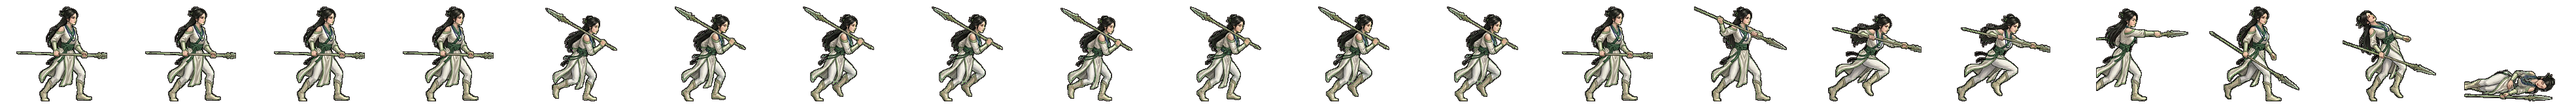
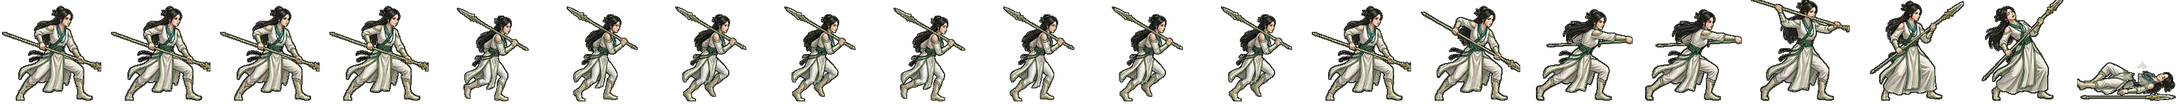
전투 띠 새로: haesol 동작 띠 다시 — 형이 구움 (굽기 꾸러미 · 검수 1·3번) (형 11-08)
Claude-Session: https://claude.ai/code/session_01TRiuNAG8xSjdmjCFpc8Rd5

Changed region(s): [[0.0, 0.0, 0.9964, 0.9688]]

diff --git a/src/ui/realm/battle-strikes.ts b/src/ui/realm/battle-strikes.ts
@@ -143,7 +143,7 @@ const CONTACT: Readonly<Record<string, [number, number, number]>> = {
   'gen-haebi': [14, 0.87, 0.53], 'gen-heo': [14, 0.94, 0.46], 'gen-hyeokgeose': [14, 0.83, 0.94],
   'gen-hyeopbo': [14, .93, .21], 'gen-malgalgi': [14, 0.88, 0.28], 'gen-mari': [14, .98, .47],
   'gen-oi': [14, .98, .48], 'gen-onjo': [14, 0.83, 0.93], 'gen-soebi': [14, 0.80, 0.95],
-  'gen-soseono': [14, 0.92, 0.31], 'gen-maryeo': [14, 0.91, 0.79], 'gen-horselord': [14, 0.89, 0.25], 'gen-olddaeso': [14, 0.93, 0.91], 'gen-maro': [14, 0.97, 0.49], 'gen-gwaeyu': [14, 0.98, 0.71], 'gen-daemusin': [14, 0.91, 0.38], 'gen-tahae': [14, 0.91, 0.74], 'gen-ocheongan': [14, 0.82, 0.49], 'gen-yusugan': [14, 0.95, 0.70], 'gen-odogan': [14, 0.93, 0.28], 'gen-pidogan': [14, 0.94, 0.75], 'gen-yeodogan': [14, 0.93, 0.57], 'gen-adogan': [14, 0.95, 0.41], 'gen-musoe': [14, 0.94, 0.39], 'gen-suro': [14, 0.82, 0.53], 'gen-waechief': [14, 0.95, 0.68], 'gen-hojin': [14, 0.97, 0.64], 'gen-jita': [14, 0.94, 0.34], 'gen-guryema': [14, 0.89, 0.28], 'gen-jibaekho': [14, 0.97, 0.33], 'gen-sobeol': [14, 0.95, 0.33], 'gen-alpyeong': [14, 0.95, 0.54], 'gen-hogong': [14, 0.98, 0.27], 'gen-geumbawi': [14, 0.91, 0.92], 'gen-keundol': [14, 0.90, 0.68], 'gen-jinha': [14, 0.76, 0.93], 'gen-duman': [14, 0.97, 0.39], 'gen-gomok': [14, 0.94, 0.57], 'gen-hneoul': [14, 0.92, 0.27], 'gen-tneoul': [14, 0.84, 0.57], 'gen-sdallae': [14, 0.89, 0.29], 'gen-yucheongan': [14, 0.97, 0.64], 'gen-sincheongan': [14, 0.91, 0.71], 'gen-singwigan': [14, 0.91, 0.27], 'gen-mdallae': [14, 0.98, 0.30], 'gen-mulbeom': [14, 0.97, 0.36], 'gen-beomi': [14, 0.88, 0.43], 'gen-danbi': [14, 0.90, 0.30], 'gen-mulsae': [14, 0.93, 0.36], 'gen-darae': [14, 0.89, 0.29], 'gen-mir': [14, 0.91, 0.33], 'gen-wan': [14, 0.94, 0.30], 'gen-gom': [14, 0.94, 0.74], 'gen-sagong': [14, 0.79, 0.96], 'gen-halla': [14, 0.86, 0.46], 'gen-areum': [14, 0.86, 0.65], 'gen-dokmudeom': [14, 0.92, 0.29], 'gen-beom': [14, 0.98, 0.28], 'gen-baram': [14, 0.96, 0.24], 'gen-goeun': [14, 0.95, 0.66], 'gen-byeol': [14, 0.76, 0.96], 'gen-sinneoul': [14, 0.94, 0.33], 'gen-haesol': [14, 0.91, 0.47], 'gen-odi': [14, 0.95, 0.37], 'gen-irang': [14, 0.86, 0.30], 'gen-dalli': [14, 0.89, 0.32], 'gen-bakdal': [14, 0.94, 0.27], 'gen-noeul': [14, 0.88, 0.27], 'gen-maehwa': [14, 0.90, 0.31], 'gen-gaon': [14, 0.98, 0.48], 'gen-eomni': [14, 0.96, 0.42], 'gen-nuri': [14, 0.93, 0.66], 'gen-bira': [14, 0.88, 0.33], 'gen-gureum': [14, 0.98, 0.42],
+  'gen-soseono': [14, 0.92, 0.31], 'gen-maryeo': [14, 0.91, 0.79], 'gen-horselord': [14, 0.89, 0.25], 'gen-olddaeso': [14, 0.93, 0.91], 'gen-maro': [14, 0.97, 0.49], 'gen-gwaeyu': [14, 0.98, 0.71], 'gen-daemusin': [14, 0.91, 0.38], 'gen-tahae': [14, 0.91, 0.74], 'gen-ocheongan': [14, 0.82, 0.49], 'gen-yusugan': [14, 0.95, 0.70], 'gen-odogan': [14, 0.93, 0.28], 'gen-pidogan': [14, 0.94, 0.75], 'gen-yeodogan': [14, 0.93, 0.57], 'gen-adogan': [14, 0.95, 0.41], 'gen-musoe': [14, 0.94, 0.39], 'gen-suro': [14, 0.82, 0.53], 'gen-waechief': [14, 0.95, 0.68], 'gen-hojin': [14, 0.97, 0.64], 'gen-jita': [14, 0.94, 0.34], 'gen-guryema': [14, 0.89, 0.28], 'gen-jibaekho': [14, 0.97, 0.33], 'gen-sobeol': [14, 0.95, 0.33], 'gen-alpyeong': [14, 0.95, 0.54], 'gen-hogong': [14, 0.98, 0.27], 'gen-geumbawi': [14, 0.91, 0.92], 'gen-keundol': [14, 0.90, 0.68], 'gen-jinha': [14, 0.76, 0.93], 'gen-duman': [14, 0.97, 0.39], 'gen-gomok': [14, 0.94, 0.57], 'gen-hneoul': [14, 0.92, 0.27], 'gen-tneoul': [14, 0.84, 0.57], 'gen-sdallae': [14, 0.89, 0.29], 'gen-yucheongan': [14, 0.97, 0.64], 'gen-sincheongan': [14, 0.91, 0.71], 'gen-singwigan': [14, 0.91, 0.27], 'gen-mdallae': [14, 0.98, 0.30], 'gen-mulbeom': [14, 0.97, 0.36], 'gen-beomi': [14, 0.88, 0.43], 'gen-danbi': [14, 0.90, 0.30], 'gen-mulsae': [14, 0.93, 0.36], 'gen-darae': [14, 0.89, 0.29], 'gen-mir': [14, 0.91, 0.33], 'gen-wan': [14, 0.94, 0.30], 'gen-gom': [14, 0.94, 0.74], 'gen-sagong': [14, 0.79, 0.96], 'gen-halla': [14, 0.86, 0.46], 'gen-areum': [14, 0.86, 0.65], 'gen-dokmudeom': [14, 0.92, 0.29], 'gen-beom': [14, 0.98, 0.28], 'gen-baram': [14, 0.96, 0.24], 'gen-goeun': [14, 0.95, 0.66], 'gen-byeol': [14, 0.76, 0.96], 'gen-sinneoul': [14, 0.94, 0.33], 'gen-haesol': [14, 0.95, 0.39], 'gen-odi': [14, 0.95, 0.37], 'gen-irang': [14, 0.86, 0.30], 'gen-dalli': [14, 0.89, 0.32], 'gen-bakdal': [14, 0.94, 0.27], 'gen-noeul': [14, 0.88, 0.27], 'gen-maehwa': [14, 0.90, 0.31], 'gen-gaon': [14, 0.98, 0.48], 'gen-eomni': [14, 0.96, 0.42], 'gen-nuri': [14, 0.93, 0.66], 'gen-bira': [14, 0.88, 0.33], 'gen-gureum': [14, 0.98, 0.42],
   'gen-biryu': [14, 0.90, 0.35], 'gen-geumha': [14, 0.94, 0.61], 'gen-geota': [14, 0.86, 0.47], 'gen-soebo': [14, 0.87, 0.57],
   'gen-gaennae': [14, 249 / 264, 47 / 160],
   'gen-budeul': [14, 266 / 280, 51 / 160],

diff --git a/src/realm/data/art.ts b/src/realm/data/art.ts
@@ -519,7 +519,7 @@ export const GEN_ANIM: Readonly<Partial<Record<string, { ar: number; body: numbe
   bira: { ar: 156 / 160, body: 0.900 }, // 11-08 초상대로 다시 (형: 「투구 쓰고 원본과 다르다」 · 제미나이 걷기 4×2 + 동작 4×2 → 20컷 · assets_src/realm/gemini/generals2) · 11-08 처음 · 푸른 깃 머리띠·푸른 짧은 조끼·밧줄 타래·조개 목걸이·작살 창 찌르기 · 걷기는 아랫줄만
   soenun: { ar: 280 / 160, body: 0.9375 }, // 11-08 쇠눈 · 제미나이 u/2 2×2(겨눔·찌르기·거둠·피격) + 새 대화 쓰러짐 · 갯내 4실보행 하체(짙은 바지 · 걷는 동안 쇠 정강이받이는 장화로 보인다) · 창 자루는 걷기에도 남긴다
   odi: { ar: 155 / 160, body: 0.906 }, // 11-08 초상대로 다시 (형: 「투구 쓰고 원본과 다르다」 · 제미나이 걷기 4×2 + 동작 4×2 → 20컷 · assets_src/realm/gemini/generals2) · 11-08 처음 · 오디 동작 띠 다시 — 창 가운데를 두 손으로 잡고 창날이 보이게 찌른다 (SPEAR 절 · 검수 1번)
-  haesol: { ar: 197 / 160, body: 0.900 }, // 11-08 초상대로 다시 (형: 「투구 쓰고 원본과 다르다」 · 제미나이 걷기 4×2 + 동작 4×2 → 20컷 · assets_src/realm/gemini/generals2) · 11-08 처음 · 우스 해솔 동작 다시 — 창날을 앞으로 찌른다 (빈 주먹 찌르기 고침 · 제미나이 u/0 · 11-09 띠 검수)
+  haesol: { ar: 167 / 160, body: 0.906 }, // 11-08 초상대로 다시 (형: 「투구 쓰고 원본과 다르다」 · 제미나이 걷기 4×2 + 동작 4×2 → 20컷 · assets_src/realm/gemini/generals2) · 11-08 처음 · haesol 동작 띠 다시 — 형이 구움 (굽기 꾸러미 · 검수 1·3번)
   sinneoul: { ar: 163 / 160, body: 0.906 }, // 11-08 초상대로 다시 (형: 「투구 쓰고 원본과 다르다」 · 제미나이 걷기 4×2 + 동작 4×2 → 20컷 · assets_src/realm/gemini/generals2) · 11-08 처음 · 신지 너울(젖은 긴 머리·묶어 입은 흰 삼베 윗옷·짧은 바지·그물 주머니·갈고리 작살 · 맨발)
   byeol: { ar: 155 / 160, body: 0.906 }, // 11-08 초상대로 다시 (형: 「투구 쓰고 원본과 다르다」 · 제미나이 걷기 4×2 + 동작 4×2 → 20컷 · assets_src/realm/gemini/generals2) · 11-08 처음 · 벽진 별(땋은 머리·흰 민소매에 가죽 대장장이 앞치마·맨발·달군 쇠칼 내려치기)
   goeun: { ar: 142 / 160, body: 0.900 }, // 11-08 초상대로 다시 (형: 「투구 쓰고 원본과 다르다」 · 제미나이 걷기 4×2 + 동작 4×2 → 20컷 · assets_src/realm/gemini/generals2) · 11-08 처음 · 신라 고은(붉은 끈 긴 머리·짙은 붉은 비단 짧은 저고리·높게 트인 치마·곧은 고리자루 칼 베기)
